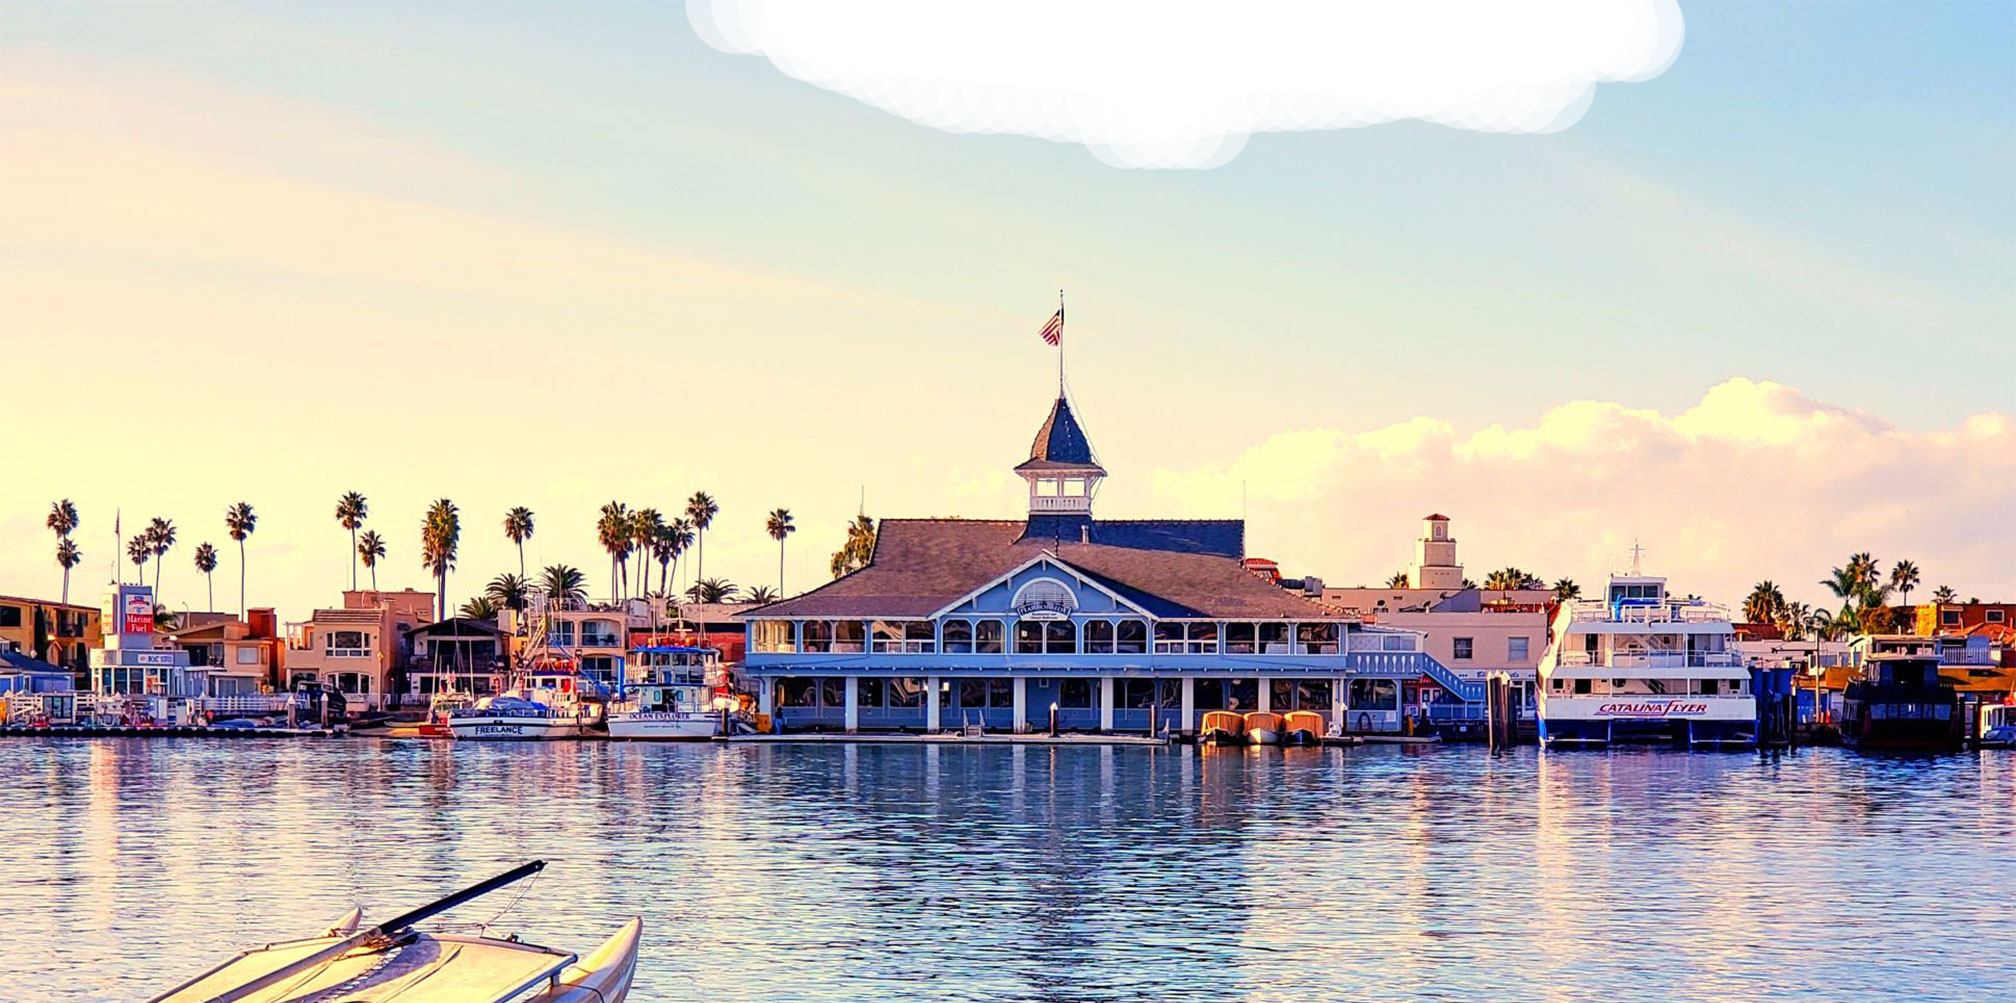
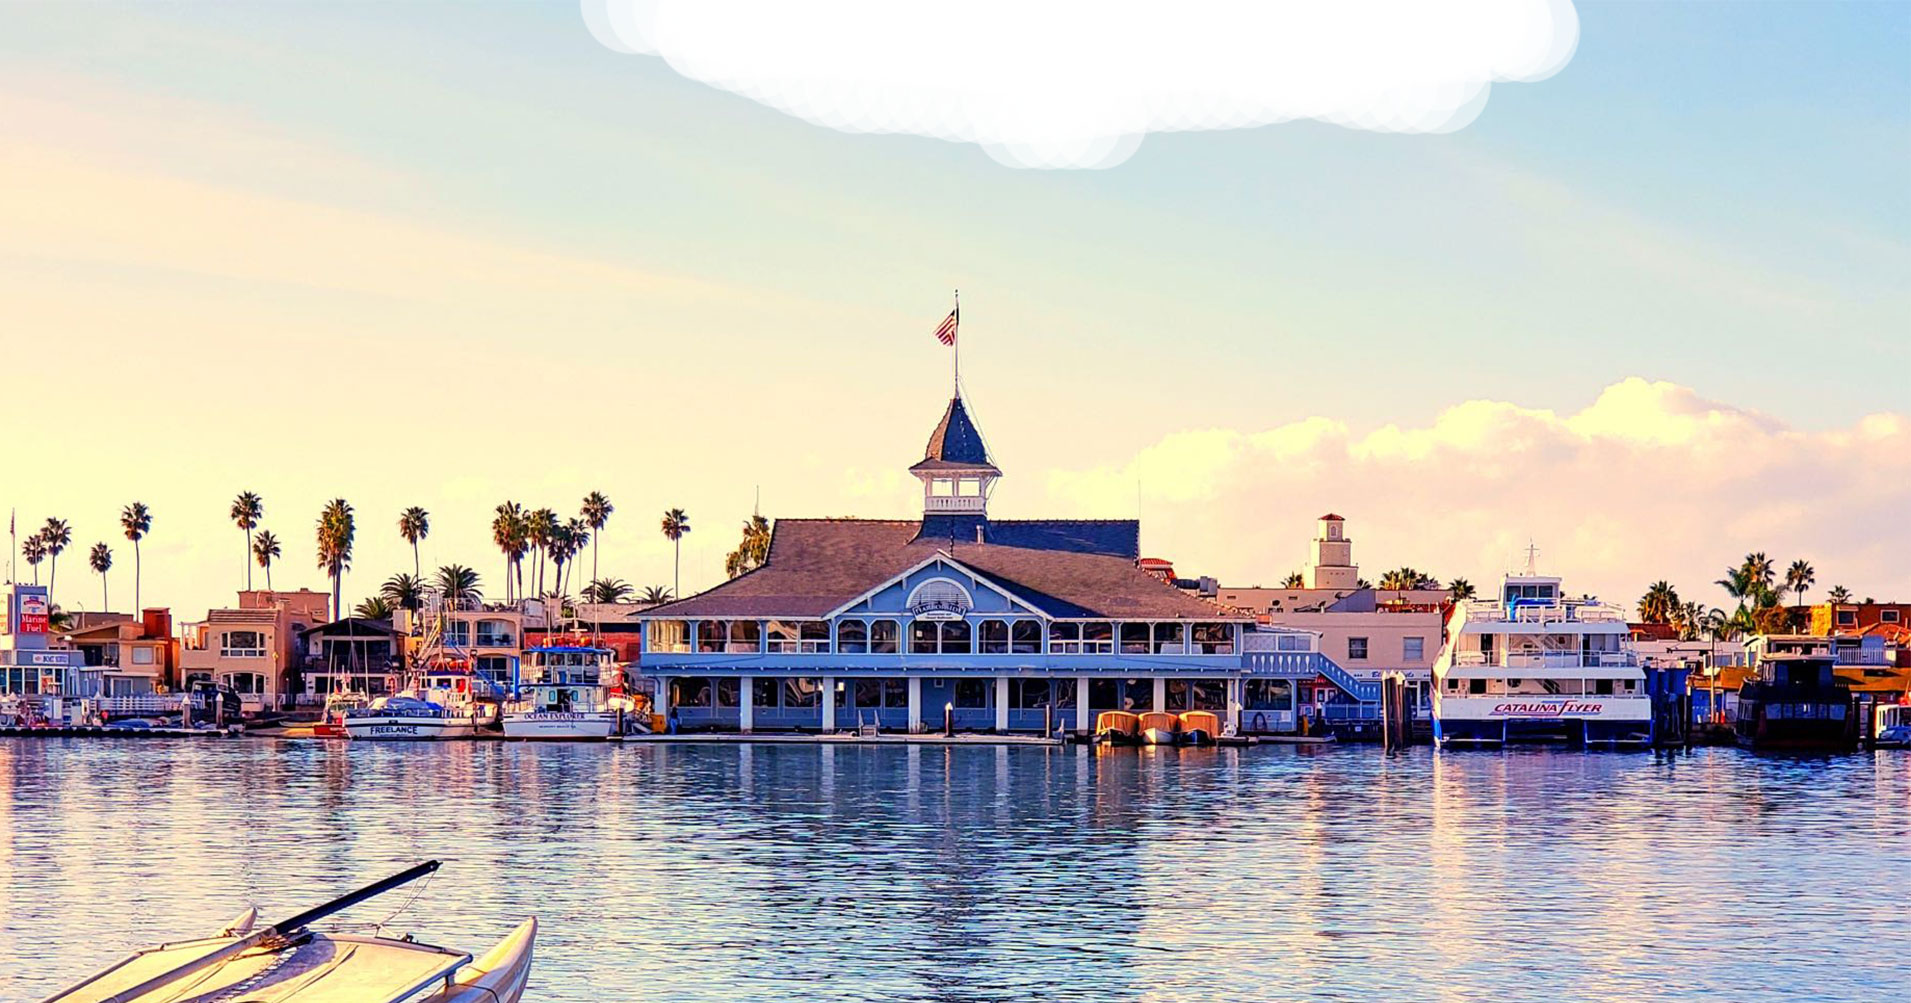
adjusted pier image

diff --git a/style.css b/style.css
@@ -12,9 +12,13 @@ body {
     background-image: url(assets/angles-top.png);
     background-position: center bottom;
     background-repeat: no-repeat;
+    background-size: 1000px auto;
     width: 100%;
-    padding-top: 50px;
-    padding-bottom: 300px;
+    padding-top: 40px;
+    padding-bottom: 100px;
+    padding-left: 2em;
+    padding-right: 2em;
+    box-sizing: border-box;
     margin-bottom: -385px;
     position: relative;
     z-index: 1;
@@ -22,7 +26,18 @@ body {
 
 @media (min-width: 768px) {
     .header {
-        padding-top: 31px;
+        padding-top: 80px;
+        background-size: auto auto;
+        padding-bottom: 250px;
+    }
+}
+
+.header img {
+    max-width: 250px;
+}
+@media (min-width: 768px) {
+    .header img {
+        max-width: 100%;
     }
 }
 
